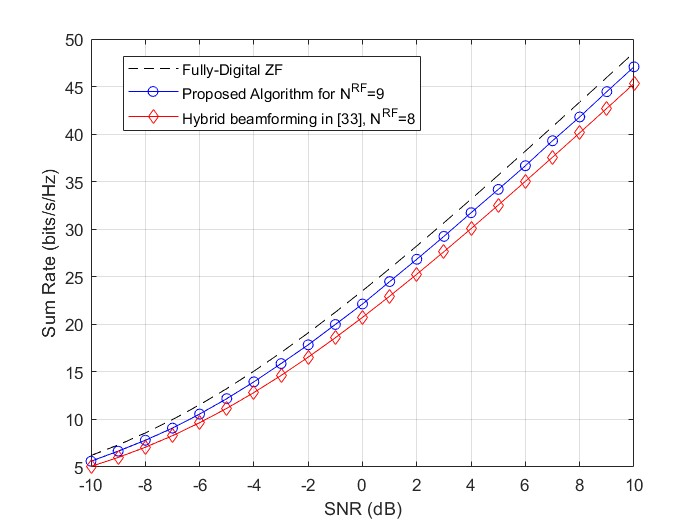
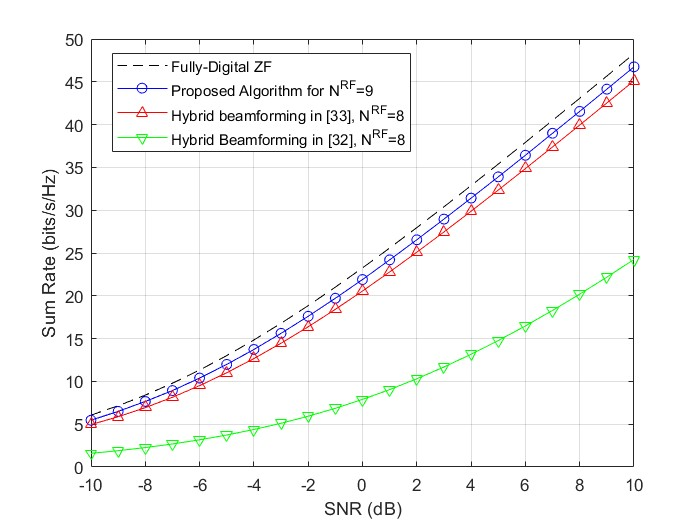
add Ref32

diff --git a/main_mu.m b/main_mu.m
@@ -16,13 +16,16 @@ numRfTx2 = numUser;
 numPath = 15;
 
 %% Generate or Load Channels
-numMC = 10;  % number of iterations for Monte-Carlo simulation
+numMC = 100;  % number of iterations for Monte-Carlo simulation
 % generate_and_save_channel(numAntTx,numAntRx,numPath,numMC);\
 
 %% Initialize Variables for Monte-Carlo Simulation
 capFdSum = 0;
 capPropSum = 0;
 capRef33Sum = 0;
+capRef32_1Sum = 0;
+capRef32_2Sum = 0;
+capRef32Sum = 0;
 
 for iMC = 1:numMC
 
@@ -39,7 +42,7 @@ for iMC = 1:numMC
     load(['./data/channels_mu_64x1/channel-',num2str(iMC),'.mat']);
     
     %% Fully-Digital Precoder
-    Vd = chn'*(chn*chn')^(-1);
+    Vd = chnMat'*(chnMat*chnMat')^(-1);
     
     % For Each SNR (Assume the Noise Power equals 1)
     capFd = zeros(numUser,snrLen);
@@ -52,11 +55,10 @@ for iMC = 1:numMC
     
         % Calculate Multi-User Capacity, i.e. Sum-Rate of All Users
         for iUser = 1:numUser
-            chnUser = chn(iUser,:);
-            gainTmp = abs(chnUser*VdNew).^2;
-            gainTmpBar = gainTmp;
-            gainTmpBar(iUser) = [];
-            capFd(iUser,iSnr) = log2( 1 + gainTmp(iUser) / (1 + sum(gainTmpBar)) );
+            chnUser = chnMat(iUser,:);
+            powerRx = abs(chnUser*VdNew).^2;
+            capFd(iUser,iSnr) = log2( 1 + powerRx(iUser) / ...
+                ( 1 + sum(powerRx([1:iUser-1,iUser+1:numUser])) ) );
         end
     end
     
@@ -64,24 +66,23 @@ for iMC = 1:numMC
     capFdSum = capFdSum + sum(capFd)';
 
 
-    %% Proposed Algorithm
+    %% Proposed Algorithm: Iterative Analog + ZF Digital
     % For Each SNR (Assume the Noise Power equals 1)
     capMu = zeros(numUser,snrLen);
     for iSnr = 1:snrLen
 
         % Caculate Analog Precoder by Algorithm 3
-        [Vrf,Vd,powProp] = hbf_algorithm3(chn,numAntTx,numRfTx,numUser,snrVec(iSnr));
+        [Vrf,Vd,powProp] = hbf_algorithm3(chnMat,numAntTx,numRfTx,numUser,snrVec(iSnr));
         
         % Add Power Factor to Digital Precoder
         VdNew = Vd*sqrt(diag(powProp));
         
         % Calculate Multi-User Capacity, i.e. Sum-Rate of All Users
         for iUser = 1:numUser
-            chnUser = chn(iUser,:);
-            gainTmp = abs(chnUser*Vrf*VdNew).^2;
-            gainTmpBar = gainTmp;
-            gainTmpBar(iUser) = [];
-            capMu(iUser,iSnr) = log2( 1 + gainTmp(iUser) / (1 + sum(gainTmpBar)) );
+            chnUser = chnMat(iUser,:);
+            powerRx = abs(chnUser*Vrf*VdNew).^2;
+            capMu(iUser,iSnr) = log2( 1 + powerRx(iUser) / ...
+                ( 1 + sum(powerRx([1:iUser-1,iUser+1:numUser])) ) );
         end
 
     end
@@ -90,13 +91,15 @@ for iMC = 1:numMC
     capPropSum = capPropSum + sum(capMu)';
 
     
-    %% Reference [33]
+    %% Reference [33]: Analog Conjugate Transpose (eqv. MRC) + Digital ZF
     % The Phase of Analog Beamformer Is the Phase of Conjugate Transpose of
-    % the Composite Channel Matrix
-    Vrf = 1/numAntTx * exp(1i*angle(chn'));
+    % the Composite Channel Matrix. This Is Equivalent to MRC. But In MU
+    % Case, After MRC Analog Beamformer, Interuser-Interference (IUI) Still
+    % Exists. The Digital ZF Helps to Eliminate the IUI.
+    Vrf = 1/numAntTx * exp(1i*angle(chnMat'));
     
     % the Equivalent Channel
-    chnEqv = chn*Vrf;
+    chnEqv = chnMat*Vrf;
 
     % ZF Digital Beamformer
     Vd = chnEqv'*(chnEqv*chnEqv')^-1;
@@ -106,21 +109,56 @@ for iMC = 1:numMC
     for iSnr = 1:snrLen
         % Use Water-Filling Algorithm to Meet Power Constraint
         % (The total beamformer power constraint is ||Vrf*Vd||_F^2=P)
-        powRef33 = water_filling_MIMO_ZF(snrVec(iSnr),ones(numUser,1),Vrf*Vd);
-        VdNew = Vd*diag(sqrt(powRef33));
+        powAlloc = water_filling_MIMO_ZF(snrVec(iSnr),ones(numUser,1),Vrf*Vd);
+        VdNew = Vd*diag(sqrt(powAlloc));
 
         % Calculate Multi-User Capacity, i.e. Sum-Rate of All Users
         for iUser = 1:numUser
-            chnUser = chn(iUser,:);
-            gainTmp = abs(chnUser*Vrf*VdNew).^2;
-            gainTmpBar = gainTmp;
-            gainTmpBar(iUser) = [];
-            capRef33(iUser,iSnr) = log2( 1 + gainTmp(iUser) / (1 + sum(gainTmpBar)) );
+            chnUser = chnMat(iUser,:);
+            powerRx = abs(chnUser*Vrf*VdNew).^2;
+            capRef33(iUser,iSnr) = log2( 1 + powerRx(iUser) / ...
+                ( 1 + sum(powerRx([1:iUser-1,iUser+1:numUser])) ) );
         end
     end
 
     % the Sum Capacity of All Users
     capRef33Sum = capRef33Sum + sum(capRef33)';
+    
+
+    %% Reference [32]: Hybrid Ananlog Point to Best Path (MUBS) + Digital ZF
+    % Analog Beamformer Pointing to Best Path
+    Vrf = zeros(numAntTx, numUser);
+    for iUser = 1:numUser
+        [~, indMaxGain] = max(abs(chnAll(iUser).pathGain));
+        Vrf(:,iUser) = 1/sqrt(numAntTx)*exp(1i*2*pi*1/2*(0:numAntTx-1)'*sin(chnAll(iUser).angleDep(indMaxGain)));
+    end
+
+    % the Equivalent Channel
+    chnEqv = chnMat*Vrf;
+
+    % ZF Digital Beamformer
+    Vd = chnEqv'*(chnEqv*chnEqv')^-1;
+
+    % For Each SNR (Assume the Noise Power equals 1)
+    capRef32 = zeros(numUser,snrLen);
+    for iSnr = 1:snrLen
+        % Use Water-Filling Algorithm to Meet Power Constraint
+        % (The total beamformer power constraint is ||Vrf*Vd||_F^2=P)
+        powAlloc = water_filling_MIMO_ZF(snrVec(iSnr),ones(numUser,1),Vrf*Vd);
+        VdNew = Vd*diag(sqrt(powAlloc));
+
+        % Calculate Multi-User Capacity, i.e. Sum-Rate of All Users
+        for iUser = 1:numUser
+            chnUser = chnMat(iUser,:);
+            powerRx = abs(chnUser*Vrf*VdNew).^2;
+            capRef32(iUser,iSnr) = log2( 1 + powerRx(iUser) / ...
+                ( 1 + sum(powerRx([1:iUser-1,iUser+1:numUser])) ) );
+        end
+    end
+
+    % the Sum Capacity of All Users
+    capRef32Sum = capRef32Sum + sum(capRef32)';
+    
 
     %% Print the Progress
     disp([num2str(iMC),'-th Monte-Carlo iteration finished!'])
@@ -131,12 +169,16 @@ end
 capFdSum = capFdSum/numMC;
 capPropSum = capPropSum/numMC;
 capRef33Sum = capRef33Sum/numMC;
+capRef32Sum = capRef32Sum/numMC;
 
 %% Plot Figure
 figure;
-plot(snrVecDb,capFdSum,'--k',snrVecDb,capPropSum,'-ob',snrVecDb,capRef33Sum,'-dr');
+plot(snrVecDb,capFdSum,'--k',snrVecDb,capPropSum,'-ob',...
+    snrVecDb,capRef33Sum,'-^r',snrVecDb,capRef32Sum,'-vg');
 hold on;
 grid on;
 xlabel('SNR (dB)');
 ylabel('Sum Rate (bits/s/Hz)');
-legend("Fully-Digital ZF","Proposed Algorithm for N^{RF}=9","Hybrid beamforming in [33], N^{RF}=8");
+legend("Fully-Digital ZF","Proposed Algorithm for N^{RF}=9",...
+    "Hybrid beamforming in [33], N^{RF}=8", ...
+    "Hybrid Beamforming in [32], N^{RF}=8");

diff --git a/generate_and_save_channel_mu.m b/generate_and_save_channel_mu.m
@@ -12,29 +12,37 @@ function generate_and_save_channel_mu(numUser,numAntTx,numAntRx,numPath,numChn,t
 %     The default type is 'combined'. The combined channel for all K users
 %     is
 %                       H = [h1,h2,...,hK]^H,
-%     where hk is the channel
+%     where hk is the channel.
 %
 % Outputs:
-% 
+%
 
+chnAll = struct(...
+    'pathGain', 0, ...
+    'angleDep', 0, ...
+    'angleArr', 0, ...
+    'antSpace', 0, ...
+    'numPath', 0 ...
+    );
+chnAll = repmat(chnAll, numUser, 1);
 
 for ind = 1:numChn
 
     % Generate Multiuser Channel
     if type == "combined"
-        chn = zeros(numAntRx*numUser, numAntTx);
+        chnMat = zeros(numAntRx*numUser, numAntTx);  % generated channel matrix
         for iUser = 1:numUser
-            chn((iUser-1)*numAntRx+1:iUser*numAntRx, :) = generate_channel(numAntTx,numAntRx,numPath);
+            [chnMat((iUser-1)*numAntRx+1:iUser*numAntRx, :), chnAll(iUser)] = generate_channel(numAntTx,numAntRx,numPath);
         end
     elseif type == "separated"
-        chn = zeros(numAntRx,numAntTx,numUser);
+        chnMat = zeros(numAntRx,numAntTx,numUser);
         for iUser = 1:numUser
-            chn(:,:,iUser) = generate_channel(numAntTx,numAntRx,numPath);
+            [chnMat(:,:,iUser), chnAll(iUser)] = generate_channel(numAntTx,numAntRx,numPath);
         end
     else
         error("Not supported type of output variable!");
     end
     
-    save(['./data/channels_mu_',num2str(numAntTx),'x',num2str(numAntRx),'/channel-',num2str(ind),'.mat'],'chn');
+    save(['./data/channels_mu_',num2str(numAntTx),'x',num2str(numAntRx),'/channel-',num2str(ind),'.mat'],'chnMat','chnAll');
 end
 end

diff --git a/generate_channel.m b/generate_channel.m
@@ -1,13 +1,18 @@
-% Generate channel
-% Last revised: Mar. 23, 2023
-% Zekai Liang, liang@ice.rwth-aachen.de
-function channel =  generate_channel(numAntTx, numAntRx, numPath)
+function [chnMat,chnAll] =  generate_channel(numAntTx, numAntRx, numPath)
+% GENERATE_CHANNEL generates a simplified cluster (also called geometric)
+% channel model.
+%
 % Inputs:
-% - numAntTx: the number of transmit antennas
-% - numAntRx: the number of receive antennas
-% - numPath:  the number of paths
+% - numAntTx [scalar]: the number of transmit antennas
+% - numAntRx [scalar]: the number of receive antennas
+% - numPath [scalar]:  the number of paths
+%
 % Outputs:
-% - channel: the channel matrix
+% - chnMat: the generated channel matrix with size numAntRx-by-numAntTx
+% - chnAll: all information for this geometric channel model
+%
+% -Last revised: June. 22, 2023
+% -Zekai Liang, liang@ice.rwth-aachen.de
 
 gain = 1/sqrt(2)*randn(numPath,1) + 1i/sqrt(2)*randn(numPath,1);
 phaseTx = 2*pi*rand(numPath,1);
@@ -22,6 +27,13 @@ g = diag(gain);
 
 % take the number of antennas into account, remove the effect of number of
 % paths: the more antennas, the larger power of the channel
-channel = sqrt(numAntTx*numAntRx/numPath)*arrayFactorRx*g*arrayFactorTx';
+chnMat = sqrt(numAntTx*numAntRx/numPath)*arrayFactorRx*g*arrayFactorTx';
+chnAll = struct(...
+    'pathGain', gain, ...
+    'angleDep', phaseTx, ...
+    'angleArr', phaseRx, ...
+    'antSpace', d, ...
+    'numPath', numPath ...
+    );
 
 end

diff --git a/README.md b/README.md
@@ -1,14 +1,28 @@
 # SimLit-2016-JSTSP-Sohrabi
 
-Reproduce the following paper in Matlab:
+Copyrighted by Zekai Liang, liang@ice.rwth-aachen.de.
+
+Reproduce results in the following paper using Matlab:
 
 - Sohrabi, F. & Yu, W. (2016). Hybrid digital and analog beamforming design
-  for large-scale antenna arrays. IEEE Journal of selected topics in signal
-  processing, 10(3). https://doi.org/10.1109/JSTSP.2016.2520912
+  for large-scale antenna arrays. *IEEE Journal of selected topics in signal
+  processing, 10*(3). https://doi.org/10.1109/JSTSP.2016.2520912
 
-## Brief Conclusion of This Paper
+## Brief Introduction of This Paper
 
+This paper introduces a HBF precoding and combining scheme, where beamforming at TX and RX are decoupled, i.e., optimized separately.
 
+**It should be highlighted that the scheme proposed in this paper requires at least $K+1$ RF chains, while most of the other related references assume the number of RF chains is equal to the number of users**.
+
+### Single-User Case
+
+In the precoder at the transmitter, the digital and analog beamformers are decoupled, where one is optimized assuming another is fixed. The digital beamformer is found by solving the capacity maximization problem with *Water-Filling* algorithm. The methodology to find the analog beamformer is to obtain solutions of the reformulated problem by iterative coordinate descent problem.  
+
+In the combiner at the receiver, the hybrid beamformer is optimized separately as the precoder. With fixed digital beamformer, the analog beamformer can be optimized in the very similar scheme as the precoder. The digital beamformer is MMSE.
+
+### Multi-User Case
+
+In the precoder, ZF is used as digital beamformer to eliminate the inter-user interference. The analog precoder can be optimized by formulating a similar power minimization problem if analog precoder is fixed. Unlike the single-user case, an alternating optimization is done between digital and analog precoder. For simplicity, MISO system model is used in the multi-user case, where only one antenna is considered at the user side.
 
 # Reproduced Results
 
@@ -27,7 +41,3 @@ Run "main_su.m" for figure 2 (single-user case), and "main_mu.m" for figure 5 (m
 ![figure 5](./images/figure5.jpg)
 
 *Fig. 5. Sum rate achieved by different methods in an 8-user MISO system with N=64. For hybrid beamforming methods, the use of infinite resolution phase shifters is assumed.*
-
-
-
-
